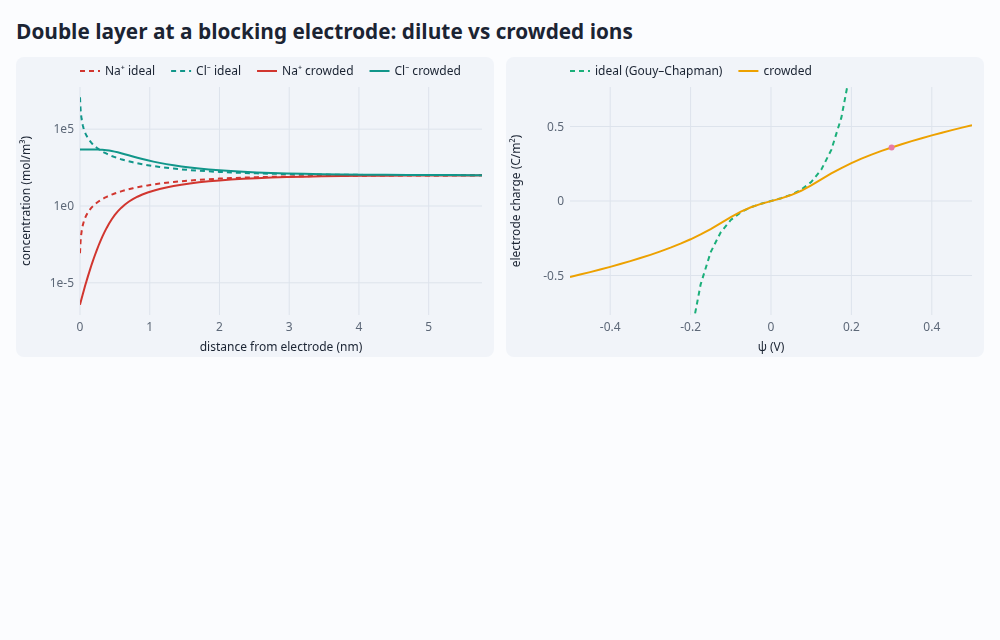
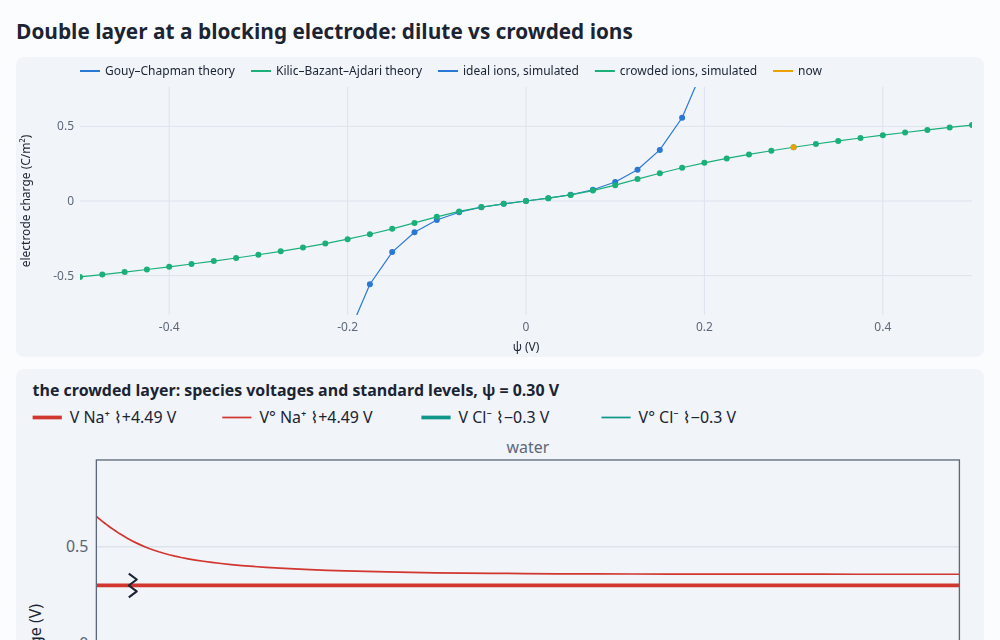
Double-layer demo: each device held against its own bulk φ, a wall grid fine enough for half a volt, theory curves, salt control, ionic diagram
The crowded case was offset in ψ by measuring it from the ideal device's bulk φ; the ideal
case ran away at large ψ on a grid too coarse for its layer.

diff --git a/demos/double-layer.html b/demos/double-layer.html
@@ -9,105 +9,152 @@
 <body>
 <main>
   <h1>Double layer at a blocking electrode: dilute vs crowded ions</h1>
-  <p>0.1 M salt against an electrode held ψ above the bulk. Ideal (Poisson–Boltzmann) ions pile up
-    without limit; on a lattice of finite size (Bikerman / Kilic–Bazant–Ajdari statistics) the
-    counter-ions saturate and the layer thickens instead, so the charge grows as √ψ rather than
-    exponentially.</p>
+  <p>A salt solution against an electrode held ψ above the bulk. Ideal (Poisson–Boltzmann) ions pile up
+    without limit: the Gouy–Chapman charge grows as sinh(Fψ/2RT), so by half a volt the counter-ions at the
+    wall would be packed 10⁸ times denser than in the bulk. On a lattice of sites of size a (Bikerman /
+    Kilic–Bazant–Ajdari statistics) the counter-ions saturate at one per a³ instead, the layer thickens,
+    and the charge grows only as √ψ. Crowding starts once the wall concentration nears the lattice's, so it
+    starts sooner for big ions and strong solutions. Both simulations (points) are drawn against their
+    closed-form theory (lines).</p>
+  <p>The level diagram is the crowded layer, ion by ion. In equilibrium each ion's voltage V<sub>i</sub>
+    (thick) is level, from the bulk right up to the wall, while its standard level V°<sub>i</sub> (thin)
+    bends with φ. The gap between them is the ion's concentration term, and its activity term on a crowded
+    lattice. Each ion is drawn with an offset (⌇), Na⁺ above and Cl⁻ below.</p>
   <div class="controls">
     <label>ψ <input id="psi" type="range" min="-0.5" max="0.5" step="0.01" value="0.3"><output id="psiOut"></output></label>
     <label>ion size a <input id="a" type="range" min="0.2" max="1.2" step="0.05" value="0.7"><output id="aOut"></output></label>
+    <label>salt <input id="c" type="range" min="-3" max="-0.5" step="0.25" value="-1"><output id="cOut"></output></label>
+    <span class="readout" id="status"></span>
   </div>
   <div class="grid">
-    <canvas id="profile"></canvas>
-    <canvas id="charge"></canvas>
+    <canvas class="wide" id="charge"></canvas>
+    <div class="levels wide" id="levels"></div>
+    <div class="levels wide" id="conc"></div>
   </div>
 </main>
 <script type="module">
 import { Device, EPS0, FARADAY, GAS_CONSTANT, AVOGADRO } from '../src/index.js';
 import { build, layer, bath, aqueous, WATER_EPSR } from '../src/kit.js';
 import { chart, colors } from './plot.js';
-import { showCode, fromQuery, speciesColor } from './common.js';
+import { levels, profiles, showCode, fromQuery } from './common.js';
 
-const RT = GAS_CONSTANT * 298.15, c0 = 100; // 0.1 M NaCl
-const lam = Math.sqrt((WATER_EPSR * EPS0 * RT) / (2 * FARADAY * FARADAY * c0)); // the Debye length
-// Water with Na⁺ and Cl⁻, with given statistics: none (ideal), or a lattice gas (crowding).
-const def = (statistics) => {
+const RT = GAS_CONSTANT * 298.15, eps = WATER_EPSR * EPS0;
+const psi = document.getElementById('psi'), size = document.getElementById('a'), salt = document.getElementById('c');
+for (const el of [psi, size, salt]) fromQuery(el);
+const c0 = () => 1000 * 10 ** +salt.value; // mol/m³ of NaCl, at most 0.32 M: both ions must fit on the lattice
+const debye = (c) => Math.sqrt((eps * RT) / (2 * FARADAY * FARADAY * c));
+
+// Water with Na⁺ and Cl⁻, with given statistics: none (ideal), or a lattice gas (crowding). The
+// grid reaches λ/10⁶ at the wall, fine enough for even the ideal layer's sliver at half a volt.
+const def = (c, statistics) => {
   const water = aqueous(['Na+', 'Cl-']);
   water.materials.water.statistics = statistics;
+  const lam = debye(c);
   return build({
     library: [water],
     stack: [
       { V: 0, phi: 'pinned', zeroCharge: 0 }, // the electrode: φ at its face is V − zeroCharge, blocking every ion
       layer('water', 30 * lam),
-      bath({ 'Na+': c0, 'Cl-': c0 }, 'Cl-'), // the bulk solution
+      bath({ 'Na+': c, 'Cl-': c }, 'Cl-'), // the bulk solution
     ],
-    grid: { hmin: lam / 200, hmax: lam / 3, ratio: 1.08 },
+    grid: { hmin: lam / 1e6, hmax: lam / 3, ratio: 1.08 },
   });
 };
-const cMax = (a) => 1 / (a ** 3 * AVOGADRO); // one ion per a³
-const ideal = new Device(def([]));
-let crowded;
-const phiBulk = ideal.solve().phi.at(-1);
-const psi = document.getElementById('psi'), size = document.getElementById('a');
-fromQuery(psi);
-fromQuery(size);
 
+// Theory: Gouy–Chapman, and Kilic–Bazant–Ajdari with packing ν = 2c/c_max.
+const gouyChapman = (v, c) => Math.sqrt(8 * eps * RT * c) * Math.sinh((FARADAY * v) / (2 * RT));
+const kba = (v, c, cMax) => {
+  const nu = (2 * c) / cMax;
+  return Math.sign(v) * 2 * FARADAY * c * debye(c) * Math.sqrt((2 / nu) * Math.log(1 + 2 * nu * Math.sinh((FARADAY * v) / (2 * RT)) ** 2));
+};
+
+// The electrode's charge per area: minus the diffuse layer's.
 const charge = (sol) => {
   let q = 0;
-  const x = sol.x;
-  for (let k = 0; k + 1 < x.length; k++) {
-    const h = x[k + 1] - x[k];
+  for (let k = 0; k + 1 < sol.x.length; k++) {
+    const h = sol.x[k + 1] - sol.x[k];
     q += 0.5 * h * FARADAY * (sol.c['Na+'][k] - sol.c['Cl-'][k] + sol.c['Na+'][k + 1] - sol.c['Cl-'][k + 1]);
   }
-  return -q; // on the electrode
+  return -q;
 };
-function sweep(dev) {
-  const xs = [], ys = [];
+
+// Each device holds the electrode ψ above its own bulk φ. (The bulks differ: at the same
+// composition, crowded ions have a different activity, so a different φ against the same reference.)
+let ideal, crowded, cMax, curves;
+const at = (d, v) => (d.set({ contacts: { left: { V: d.phiBulk + v } } }), d.solve());
+const device = (statistics) => {
+  const d = new Device(def(c0(), statistics));
+  d.phiBulk = d.solve().phi.at(-1);
+  return d;
+};
+const sweep = (d) => {
+  const x = [], y = [];
   for (let v = -0.5; v <= 0.5001; v += 0.025) {
-    dev.set({ contacts: { left: { V: phiBulk + v } } });
-    xs.push(v);
-    ys.push(charge(dev.solve()));
+    x.push(v);
+    y.push(charge(at(d, v)));
   }
-  return { x: xs, y: ys };
-}
-let curves;
+  return { x, y };
+};
 function rebuild() {
-  const a = +size.value * 1e-9;
-  document.getElementById('aOut').textContent = `${size.value} nm`;
-  crowded = new Device(def([{ type: 'lattice', species: ['Na+', 'Cl-'], cMax: cMax(a) }]));
-  crowded.solve();
-  curves = { ideal: curves?.ideal ?? sweep(ideal), crowded: sweep(crowded) };
+  cMax = 1 / ((+size.value * 1e-9) ** 3 * AVOGADRO); // one ion per a³
+  ideal = device([]);
+  crowded = device([{ type: 'lattice', species: ['Na+', 'Cl-'], cMax }]);
+  curves = { ideal: sweep(ideal), crowded: sweep(crowded) };
   update();
 }
+const labels = () => {
+  document.getElementById('psiOut').textContent = `${(+psi.value).toFixed(2)} V`;
+  document.getElementById('aOut').textContent = `${size.value} nm`;
+  document.getElementById('cOut').textContent = `${+(c0() / 1000).toPrecision(2)} M`;
+};
 function update() {
-  const v = +psi.value;
-  document.getElementById('psiOut').textContent = `${v.toFixed(2)} V`;
-  const s = [ideal, crowded].map((d) => (d.set({ contacts: { left: { V: phiBulk + v } } }), d.solve()));
-  const nm = 1e9, lim = [0, 6 * lam * nm];
-  chart(document.getElementById('profile'), {
-    xscale: nm, xlim: lim, xlabel: 'distance from electrode (nm)', ylabel: 'concentration (mol/m³)', logy: true,
-    series: [
-      { x: s[0].x, y: s[0].c['Na+'], color: speciesColor(s[0], 'Na+'), dash: [5, 4], label: 'Na⁺ ideal' },
-      { x: s[0].x, y: s[0].c['Cl-'], color: speciesColor(s[0], 'Cl-'), dash: [5, 4], label: 'Cl⁻ ideal' },
-      { x: s[1].x, y: s[1].c['Na+'], color: speciesColor(s[0], 'Na+'), label: 'Na⁺ crowded' },
-      { x: s[1].x, y: s[1].c['Cl-'], color: speciesColor(s[0], 'Cl-'), label: 'Cl⁻ crowded' },
-    ],
-  });
+  labels();
+  const v = +psi.value, c = c0(), lam = debye(c);
+  const [si, sc] = [at(ideal, v), at(crowded, v)];
+  document.getElementById('status').textContent =
+    `Debye length ${(lam * 1e9).toPrecision(2)} nm · lattice ${(cMax / 1000).toFixed(1)} M · at the wall: ideal ${(si.c[v > 0 ? 'Cl-' : 'Na+'][0] / 1000).toPrecision(2)} M, crowded ${(sc.c[v > 0 ? 'Cl-' : 'Na+'][0] / 1000).toPrecision(2)} M counter-ions`;
   const qmax = 1.5 * Math.max(...curves.crowded.y.map(Math.abs));
+  const vs = curves.ideal.x;
   chart(document.getElementById('charge'), {
     xlabel: 'ψ (V)', ylabel: 'electrode charge (C/m²)', ylim: [-qmax, qmax],
     series: [
-      { ...curves.ideal, color: colors[2], dash: [5, 4], label: 'ideal (Gouy–Chapman)' },
-      { ...curves.crowded, color: colors[3], label: 'crowded' },
-      { x: [v, v], y: [charge(s[0]), charge(s[1])], color: colors[4], width: 0, marker: true },
+      { x: vs, y: vs.map((w) => gouyChapman(w, c)), color: colors[0], width: 1.2, label: 'Gouy–Chapman theory' },
+      { x: vs, y: vs.map((w) => kba(w, c, cMax)), color: colors[2], width: 1.2, label: 'Kilic–Bazant–Ajdari theory' },
+      { ...curves.ideal, color: colors[0], marker: true, width: 0, label: 'ideal ions, simulated' },
+      { ...curves.crowded, color: colors[2], marker: true, width: 0, label: 'crowded ions, simulated' },
+      { x: [v, v], y: [charge(si), charge(sc)], color: colors[3], width: 0, marker: true, label: 'now' },
     ],
+  });
+  // The crowded layer's ionic view, Na⁺ drawn with its voltage 0.3 V above Cl⁻'s. The window: a few
+  // Debye lengths, plus the width of the saturated layer, which holds the charge at c_max.
+  const xlim = [0, Math.min(30 * lam, 6 * lam + (2 * Math.abs(charge(sc))) / (FARADAY * cMax))];
+  levels(document.getElementById('levels'), sc, {
+    title: `the crowded layer: species voltages and standard levels, ψ = ${v.toFixed(2)} V`,
+    shifts: { 'Na+': Math.round((0.3 - sc.V['Na+'].at(-1)) * 100) / 100, 'Cl-': -0.3 },
+    xlim, range: [-0.95, 0.95],
+    ylabel: 'voltage (V)',
+  });
+  profiles(document.getElementById('conc'), sc, {
+    species: ['Na+', 'Cl-', { name: 'Na+', c: si.c['Na+'], kind: 'standard', label: 'c Na⁺ ideal' }, { name: 'Cl-', c: si.c['Cl-'], kind: 'standard', label: 'c Cl⁻ ideal' }],
+    labels: { 'Na+': 'c Na⁺ crowded', 'Cl-': 'c Cl⁻ crowded' },
+    title: 'concentrations: crowded (thick) and ideal (thin)', ylabel: 'concentration (M)', scale: 1e-3, log: true, xlim,
+    range: [Math.floor(Math.log10(c / 1000)) - 3, Math.max(1, Math.ceil(Math.log10(cMax / 1000)) + 1)],
   });
 }
 let pending = false;
-const later = (fn) => () => { if (pending) return; pending = true; requestAnimationFrame(() => { pending = false; fn(); }); };
+const later = (fn) => () => {
+  if (pending) return;
+  pending = true;
+  requestAnimationFrame(() => {
+    pending = false;
+    fn();
+  });
+};
 psi.addEventListener('input', later(update));
-size.addEventListener('change', rebuild);
-size.addEventListener('input', () => (document.getElementById('aOut').textContent = `${size.value} nm`));
+for (const el of [size, salt]) {
+  el.addEventListener('change', rebuild);
+  el.addEventListener('input', labels);
+}
 addEventListener('resize', update);
 rebuild();
 showCode();

diff --git a/demos/index.html b/demos/index.html
@@ -30,7 +30,7 @@
   <h2>Interfaces and materials</h2>
   <div class="cards">
     <a class="card" href="membrane.html"><img src="screenshots/membrane.png" alt="ion-exchange membrane"><div><b>Ion-exchange membrane</b><span>Donnan exclusion and permselectivity, ion by ion, against Teorell–Meyer–Sievers theory; unstirred layers.</span></div></a>
-    <a class="card" href="double-layer.html"><img src="screenshots/double-layer.png" alt="double layer"><div><b>Double layer</b><span>Gouy–Chapman against crowded (lattice-gas) ions at a blocking electrode.</span></div></a>
+    <a class="card" href="double-layer.html"><img src="screenshots/double-layer.png" alt="double layer"><div><b>Double layer</b><span>Ideal against crowded (lattice-gas) ions at a blocking electrode, each against its closed-form theory; ion by ion.</span></div></a>
     <a class="card" href="insertion.html"><img src="screenshots/insertion.png" alt="intercalation host"><div><b>Intercalation host</b><span>Lithiation at constant current against a regular-solution OCV.</span></div></a>
   </div>
 </main>
